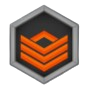
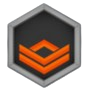
pagina de ranks

diff --git a/CODIFICAÇÃO/app/templates/main/usuario.html b/CODIFICAÇÃO/app/templates/main/usuario.html
@@ -1,12 +1,79 @@
-<!DOCTYPE html>
-<html lang="pt-br">
-<head>
-    <meta charset="UTF-8">
-    <meta name="viewport" content="width=device-width, initial-scale=1.0">
-    <title>Usuário</title>
-</head>
-<body>
-    <h1>Página do Usuário</h1>
-    <p>Aqui você pode visualizar e editar as informações do usuário.</p>
-</body>
-</html>
+{% extends 'base.html' %}
+
+{% block title %}Login{% endblock %}
+
+{% block content %}
+
+<link rel="stylesheet" type="text/css" href="{{ url_for('static', filename='/css/user.css') }}">
+
+<div class="container mt-4">
+    <div class="card p-4">
+        <div class="mt-5 text-center">
+            <h2 class="mb-0">Thiago Barros Gomes</h2>
+            <span class="text-muted d-block mb-2">Araras</span>
+
+            <div class="d-flex justify-content-between align-items-center mt-4 px-4">
+                <div class="stats">
+                    <h6 class="mb-0">Pontos</h6>
+                    <span class="">230</span>
+                </div>
+                <div class="ranks">
+                    <h3 class="mb-0">Ranks Adquiridos!</h3>
+                    <img src="{{ url_for('static', filename='images/rank/1.png')}}" alt="rank master"
+                        title="Rank Master">
+                    <img src="{{ url_for('static', filename='images/rank/2.png')}}" alt="rank master"
+                        title="Rank Master">
+                    <img src="{{ url_for('static', filename='images/rank/3.png')}}" alt="rank master"
+                        title="Rank Master">
+                    <img src="{{ url_for('static', filename='images/rank/4.png')}}" alt="rank master"
+                        title="Rank Master">
+                    <img src="{{ url_for('static', filename='images/rank/5.png')}}" alt="rank master"
+                        title="Rank Master">
+                    <img src="{{ url_for('static', filename='images/rank/6.png')}}" alt="rank master"
+                        title="Rank Master">
+                    <img src="{{ url_for('static', filename='images/rank/7.png')}}" alt="rank master"
+                        title="Rank Master">
+                    <img src="{{ url_for('static', filename='images/rank/8.png')}}" alt="rank master"
+                        title="Rank Master">
+                    <img src="{{ url_for('static', filename='images/rank/9.png')}}" alt="rank master"
+                        title="Rank Master">
+                    <img src="{{ url_for('static', filename='images/rank/10.png')}}" alt="rank master"
+                        title="Rank Master">
+                    <img src="{{ url_for('static', filename='images/rank/11.png')}}" alt="rank master"
+                        title="Rank Master">
+                    <img src="{{ url_for('static', filename='images/rank/12.png')}}" alt="rank master"
+                        title="Rank Master">
+                    <img src="{{ url_for('static', filename='images/rank/13.png')}}" alt="rank master"
+                        title="Rank Master">
+                    <img src="{{ url_for('static', filename='images/rank/14.png')}}" alt="rank master"
+                        title="Rank Master">
+                    <img src="{{ url_for('static', filename='images/rank/15.png')}}" alt="rank master"
+                        title="Rank Master">
+                    <img src="{{ url_for('static', filename='images/rank/16.png')}}" alt="rank master"
+                        title="Rank Master">
+                    <img src="{{ url_for('static', filename='images/rank/17.png')}}" alt="rank master"
+                        title="Rank Master">
+                    <img src="{{ url_for('static', filename='images/rank/18.png')}}" alt="rank master"
+                        title="Rank Master">
+                    <img src="{{ url_for('static', filename='images/rank/19.png')}}" alt="rank master"
+                        title="Rank Master">
+                    <img src="{{ url_for('static', filename='images/rank/20.png')}}" alt="rank master"
+                        title="Rank Master">
+                    <img src="{{ url_for('static', filename='images/rank/21.png')}}" alt="rank master"
+                        title="Rank Master">
+                    <img src="{{ url_for('static', filename='images/rank/22.png')}}" alt="rank master"
+                        title="Rank Master">
+                    <img src="{{ url_for('static', filename='images/rank/23.png')}}" alt="rank master"
+                        title="Rank Master">
+                    <img src="{{ url_for('static', filename='images/rank/24.png')}}" alt="rank master"
+                        title="Rank Master">
+
+                    <!-- Adicione os outros logos de rank aqui -->
+                </div>
+            </div>
+        </div>
+        <button class="btn btn-primary btn-sm follow text-dark">Redes Sociais</button>
+    </div>
+</div>
+
+{% endblock %}

diff --git a/CODIFICAÇÃO/app/templates/base.html b/CODIFICAÇÃO/app/templates/base.html
@@ -36,9 +36,15 @@
     <div class=""></div>
     <nav class="navbar navbar-inverse">
         <div class="container-fluid">
-            <div class="navbar-header">
-                <a class="navbar-brand" href="#">Hackers School</a>
+            <div class="nav navbar-nav">
+                <img class="imgLogo" src="{{ url_for('static', filename='images/icons/icone1.png')}}" alt="logo">
             </div>
+
+            <div class="navbar-nav logotipo">
+                <a class="navbar-brand" href="#">Hackers School</a>
+
+            </div>
+
             <ul class="nav navbar-nav">
                 <li class="active"><a class="nav-link active text-white btn btn-secondary btn-lg"
                         href="{{ url_for('main.index') }}">Home</a>
@@ -58,8 +64,7 @@
             </ul>
             <ul class="nav navbar-nav navbar-right"> {% if 'username' in session %}
                 <li><a href="{{ url_for('main.rank') }}"><span class="btn"></span>
-                        <img class="imgRank" src="{{ url_for('static', filename='images/rank/rank_master2.png')}}"
-                            alt="rank1">
+                        <img class="imgRank" src="{{ url_for('static', filename='images/rank/24.png')}}" alt="rank24">
                         <span>Usuário: {{ session['username'] }}</span></a></li>
                 {% endif %}
                 <li><a class="nav-link text-white btn" href="{{ url_for('auth.logout') }}"><span

diff --git a/CODIFICAÇÃO/app/static/css/meu.css b/CODIFICAÇÃO/app/static/css/meu.css
@@ -7,9 +7,9 @@
 body,
 html {
     /* background: #797c81; */
-    background-image: linear-gradient(to right, #525252, #afafaf, #525252);
+    background-image: linear-gradient(to right, #525252, #afafaf, #657e65, #af94b9, #525252);
     background-size: 500% 100%;
-    animation: degradeBackground 3s infinite alternate;
+    animation: degradeBackground 10s infinite alternate;
     height: 100%;
     font-family: Poppins-Regular, sans-serif;
 }
@@ -183,6 +183,14 @@ img.icone {
     box-shadow: 0 6px 12px 0 rgba(0, 0, 0, 0.2), 0 6px 20px 0 rgba(0, 0, 0, 0.9);
 }
 
+.logotipo {
+    display: inline;
+}
+
+.imgLogo {
+    width: 40%;
+}
+
 /* SECTION MUDANCA LOGIN */
 .config {
     padding: 10px;
@@ -269,7 +277,7 @@ button:hover {
     width: 20px;
 }
 
-.container {
+.container1 {
     max-width: 600px;
     margin: auto;
     padding: 30px;
@@ -281,7 +289,7 @@ button:hover {
     backdrop-filter: blur(55px);
 }
 
-.container:hover {
+.container1:hover {
     box-shadow: 0 0 5em rgba(0, 0, 0, 0.5);
 }
 

diff --git a/CODIFICAÇÃO/app/static/css/user.css b/CODIFICAÇÃO/app/static/css/user.css
@@ -1,0 +1,78 @@
+* {
+    color: #fff;
+
+}
+
+
+
+/* css usuario */
+
+.container {
+    max-width: 600px;
+    margin: auto;
+    padding: 30px;
+
+}
+
+.card {
+
+    width: 680px;
+    border-color: #3f3f44;
+    border: 10px rgba(0, 0, 0, 0.5);
+    border-radius: 15px;
+    padding: 8px;
+    background-color: #353535;
+    transition: box-shadow 0.3s ease-in-out;
+    box-shadow: 10px 10px 1em rgba(0, 0, 0, 0.156);
+}
+
+.upper {
+
+    height: 100px;
+
+}
+
+.upper img {
+
+    width: 30%;
+}
+
+.user {
+    position: relative;
+}
+
+.profile img {
+
+
+    height: 80px;
+    width: 80px;
+    margin-top: 2px;
+
+
+}
+
+.profile {
+
+    position: absolute;
+    top: -50px;
+    left: 38%;
+    height: 90px;
+    width: 90px;
+    border: 3px solid #fff;
+
+    border-radius: 50%;
+
+}
+
+.follow {
+
+    border-radius: 15px;
+    padding-left: 20px;
+    padding-right: 20px;
+    height: 35px;
+}
+
+.stats span {
+
+    font-size: 29px;
+}
